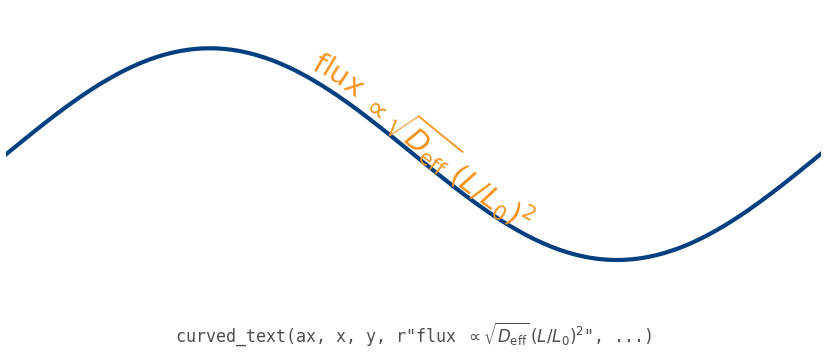
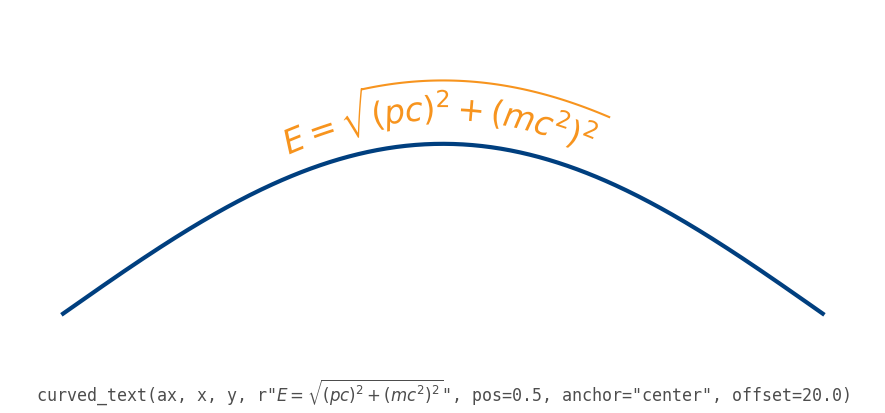
Use a gentle hump and clearer expression for the mathtext example

diff --git a/examples/example_10_mathtext.py b/examples/example_10_mathtext.py
@@ -1,9 +1,10 @@
 """Tier 1: mathtext bent along the curve.
 
 A ``$...$`` run in the label is laid out by matplotlib's mathtext engine and
-bent through the same arc-length frame as plain text, so the radical, fraction,
-and superscript stay connected and follow the curve. Plain and math runs mix in
-one string.
+bent through the same arc-length frame as plain text, so the radical, nested
+parentheses, and superscripts stay connected and follow the curve. The label
+rides over a broad, gentle hump -- enough curvature to show the bend, gentle
+enough that the expression stays clearly readable.
 """
 from __future__ import annotations
 
@@ -16,23 +17,22 @@ from _style import PALETTE, figure, bare, caption, save
 
 
 def make(images_dir):
-    fig = figure(14, 6, font_size=11)
+    fig = figure(15, 7, font_size=11)
     ax = fig.subplots()
     bare(ax)
 
-    x = np.linspace(0, 2 * np.pi, 400)
-    y = np.sin(x)
+    x = np.linspace(0, 10, 400)
+    y = 1.6 * np.sin(np.pi * x / 10.0)
     ax.plot(x, y, color=PALETTE["blue"], linewidth=2)
-    ax.set_xlim(0, 2 * np.pi)
-    ax.set_ylim(-1.4, 1.4)
+    ax.set_xlim(-0.3, 10.3)
+    ax.set_ylim(-0.4, 2.9)
 
-    curved_text(ax, x, y,
-                r"flux $\propto \sqrt{D_{\mathrm{eff}}}\,\left(L/L_0\right)^{2}$",
-                pos=0.5, anchor="center", offset=8.0,
-                color=PALETTE["gold"], fontsize=14)
+    curved_text(ax, x, y, r"$E = \sqrt{(pc)^2 + (mc^2)^2}$",
+                pos=0.5, anchor="center", offset=20.0,
+                color=PALETTE["gold"], fontsize=16)
 
-    caption(ax, r'curved_text(ax, x, y, '
-                r'r"flux $\propto \sqrt{D_{\mathrm{eff}}}\,(L/L_0)^2$", ...)')
+    caption(ax, r'curved_text(ax, x, y, r"$E = \sqrt{(pc)^2 + (mc^2)^2}$", '
+                r'pos=0.5, anchor="center", offset=20.0)')
 
     path = os.path.join(images_dir, "10_mathtext.png")
     return save(fig, path)
